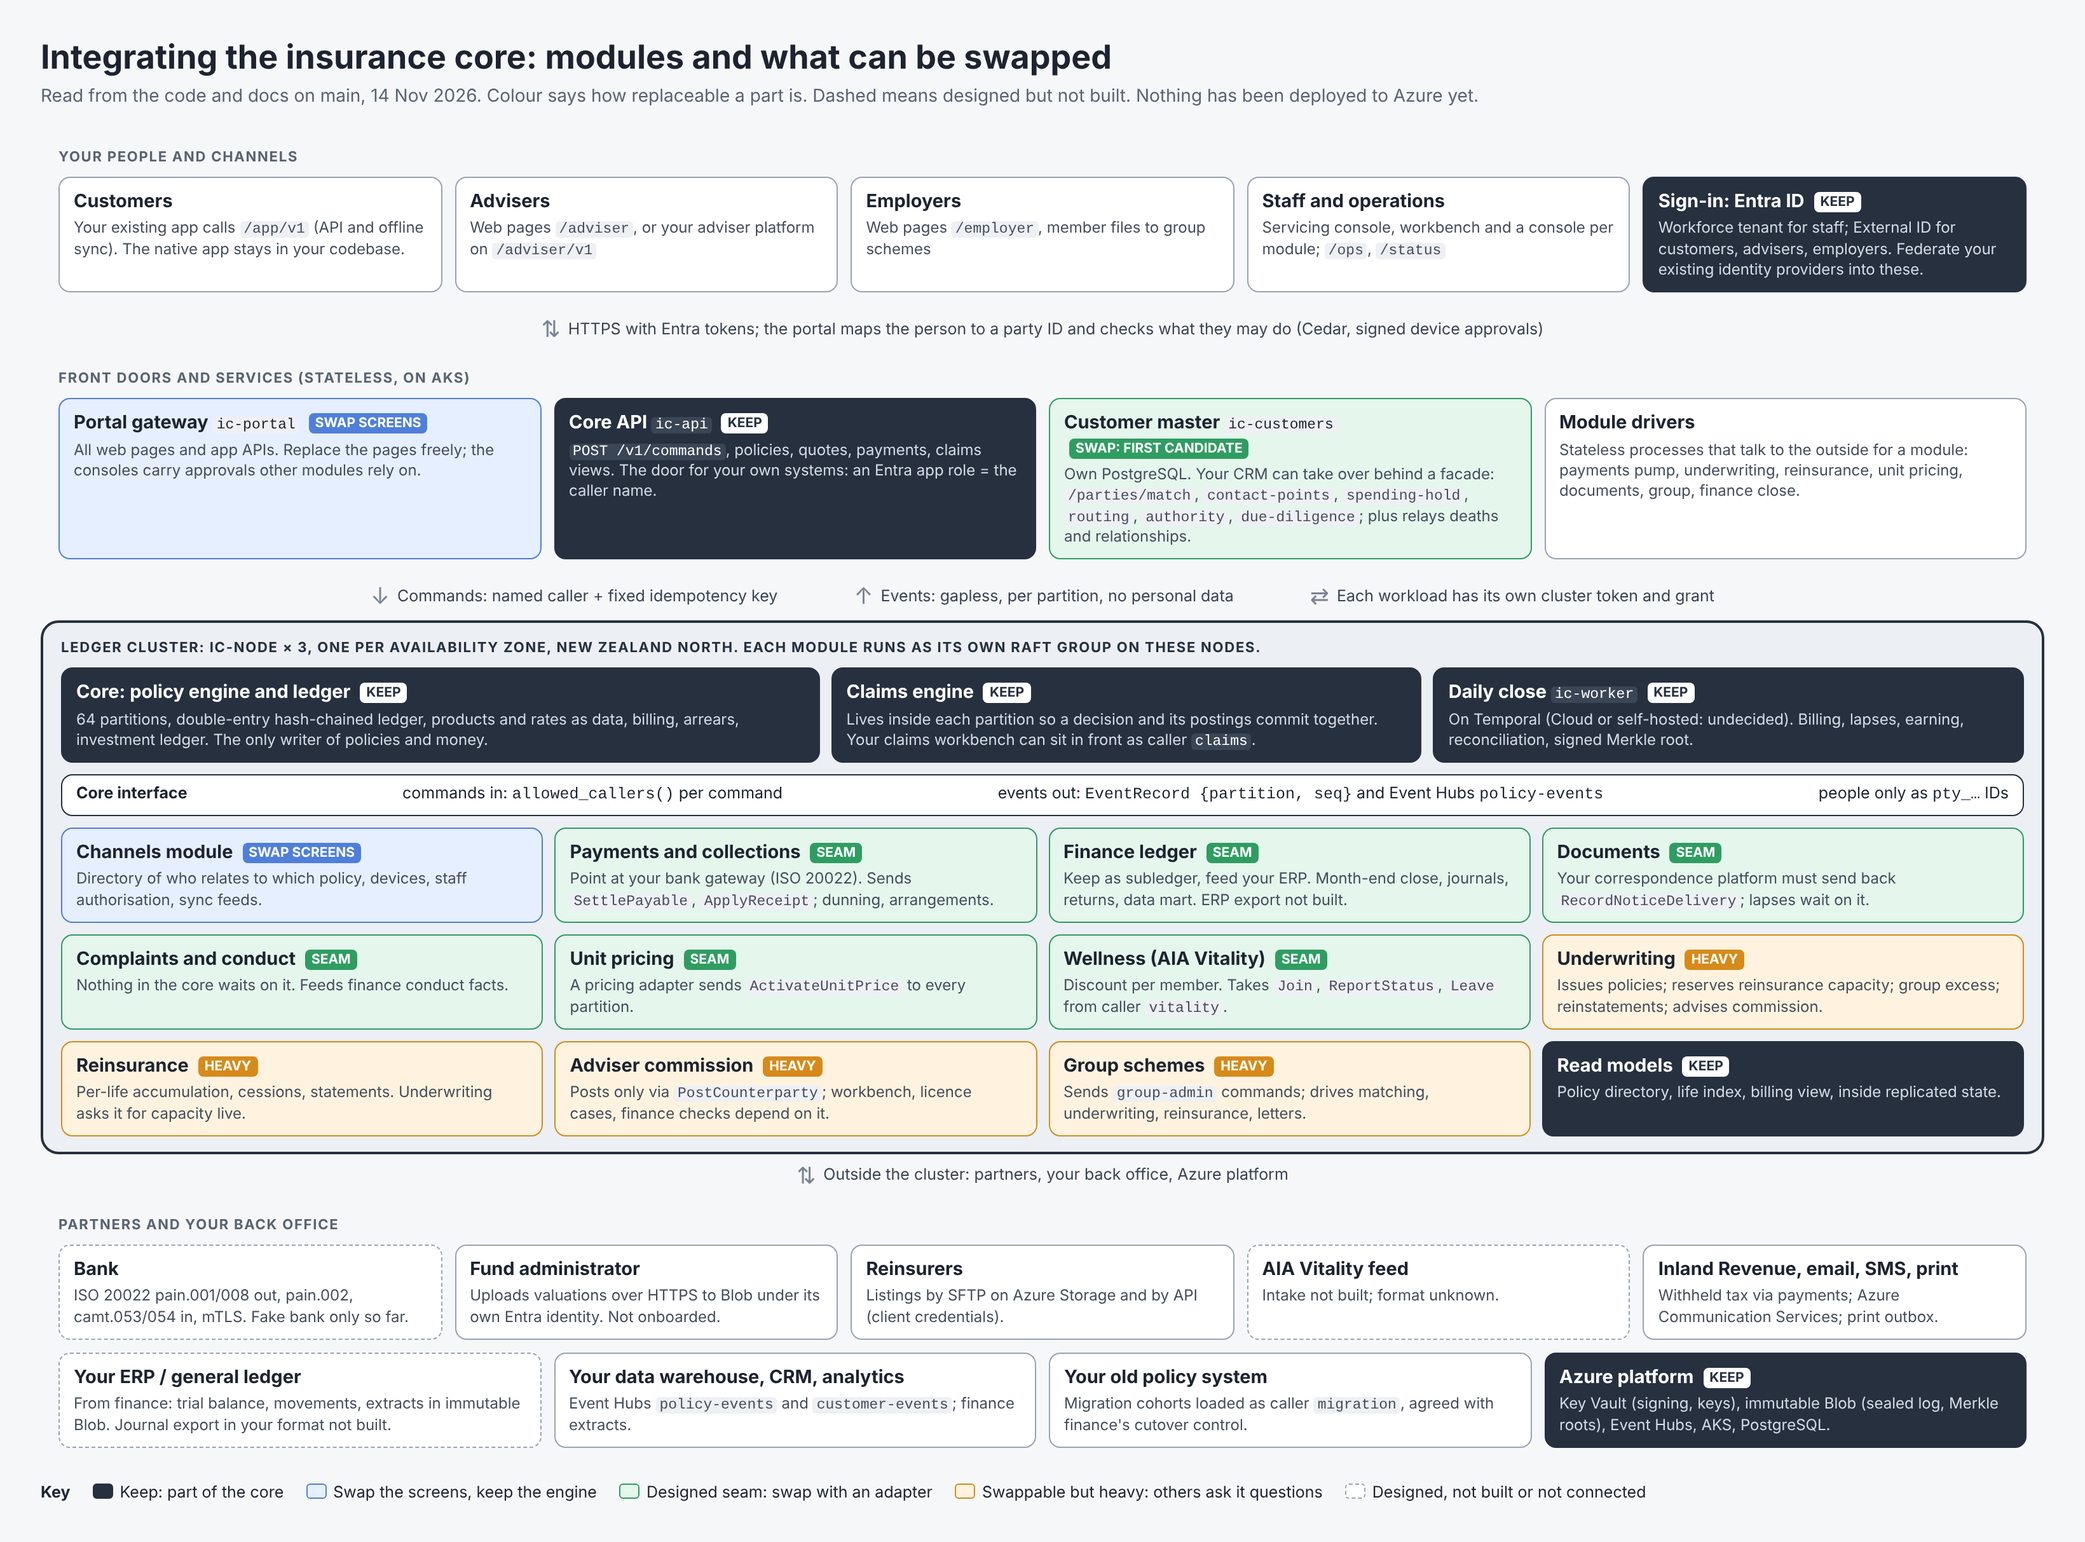
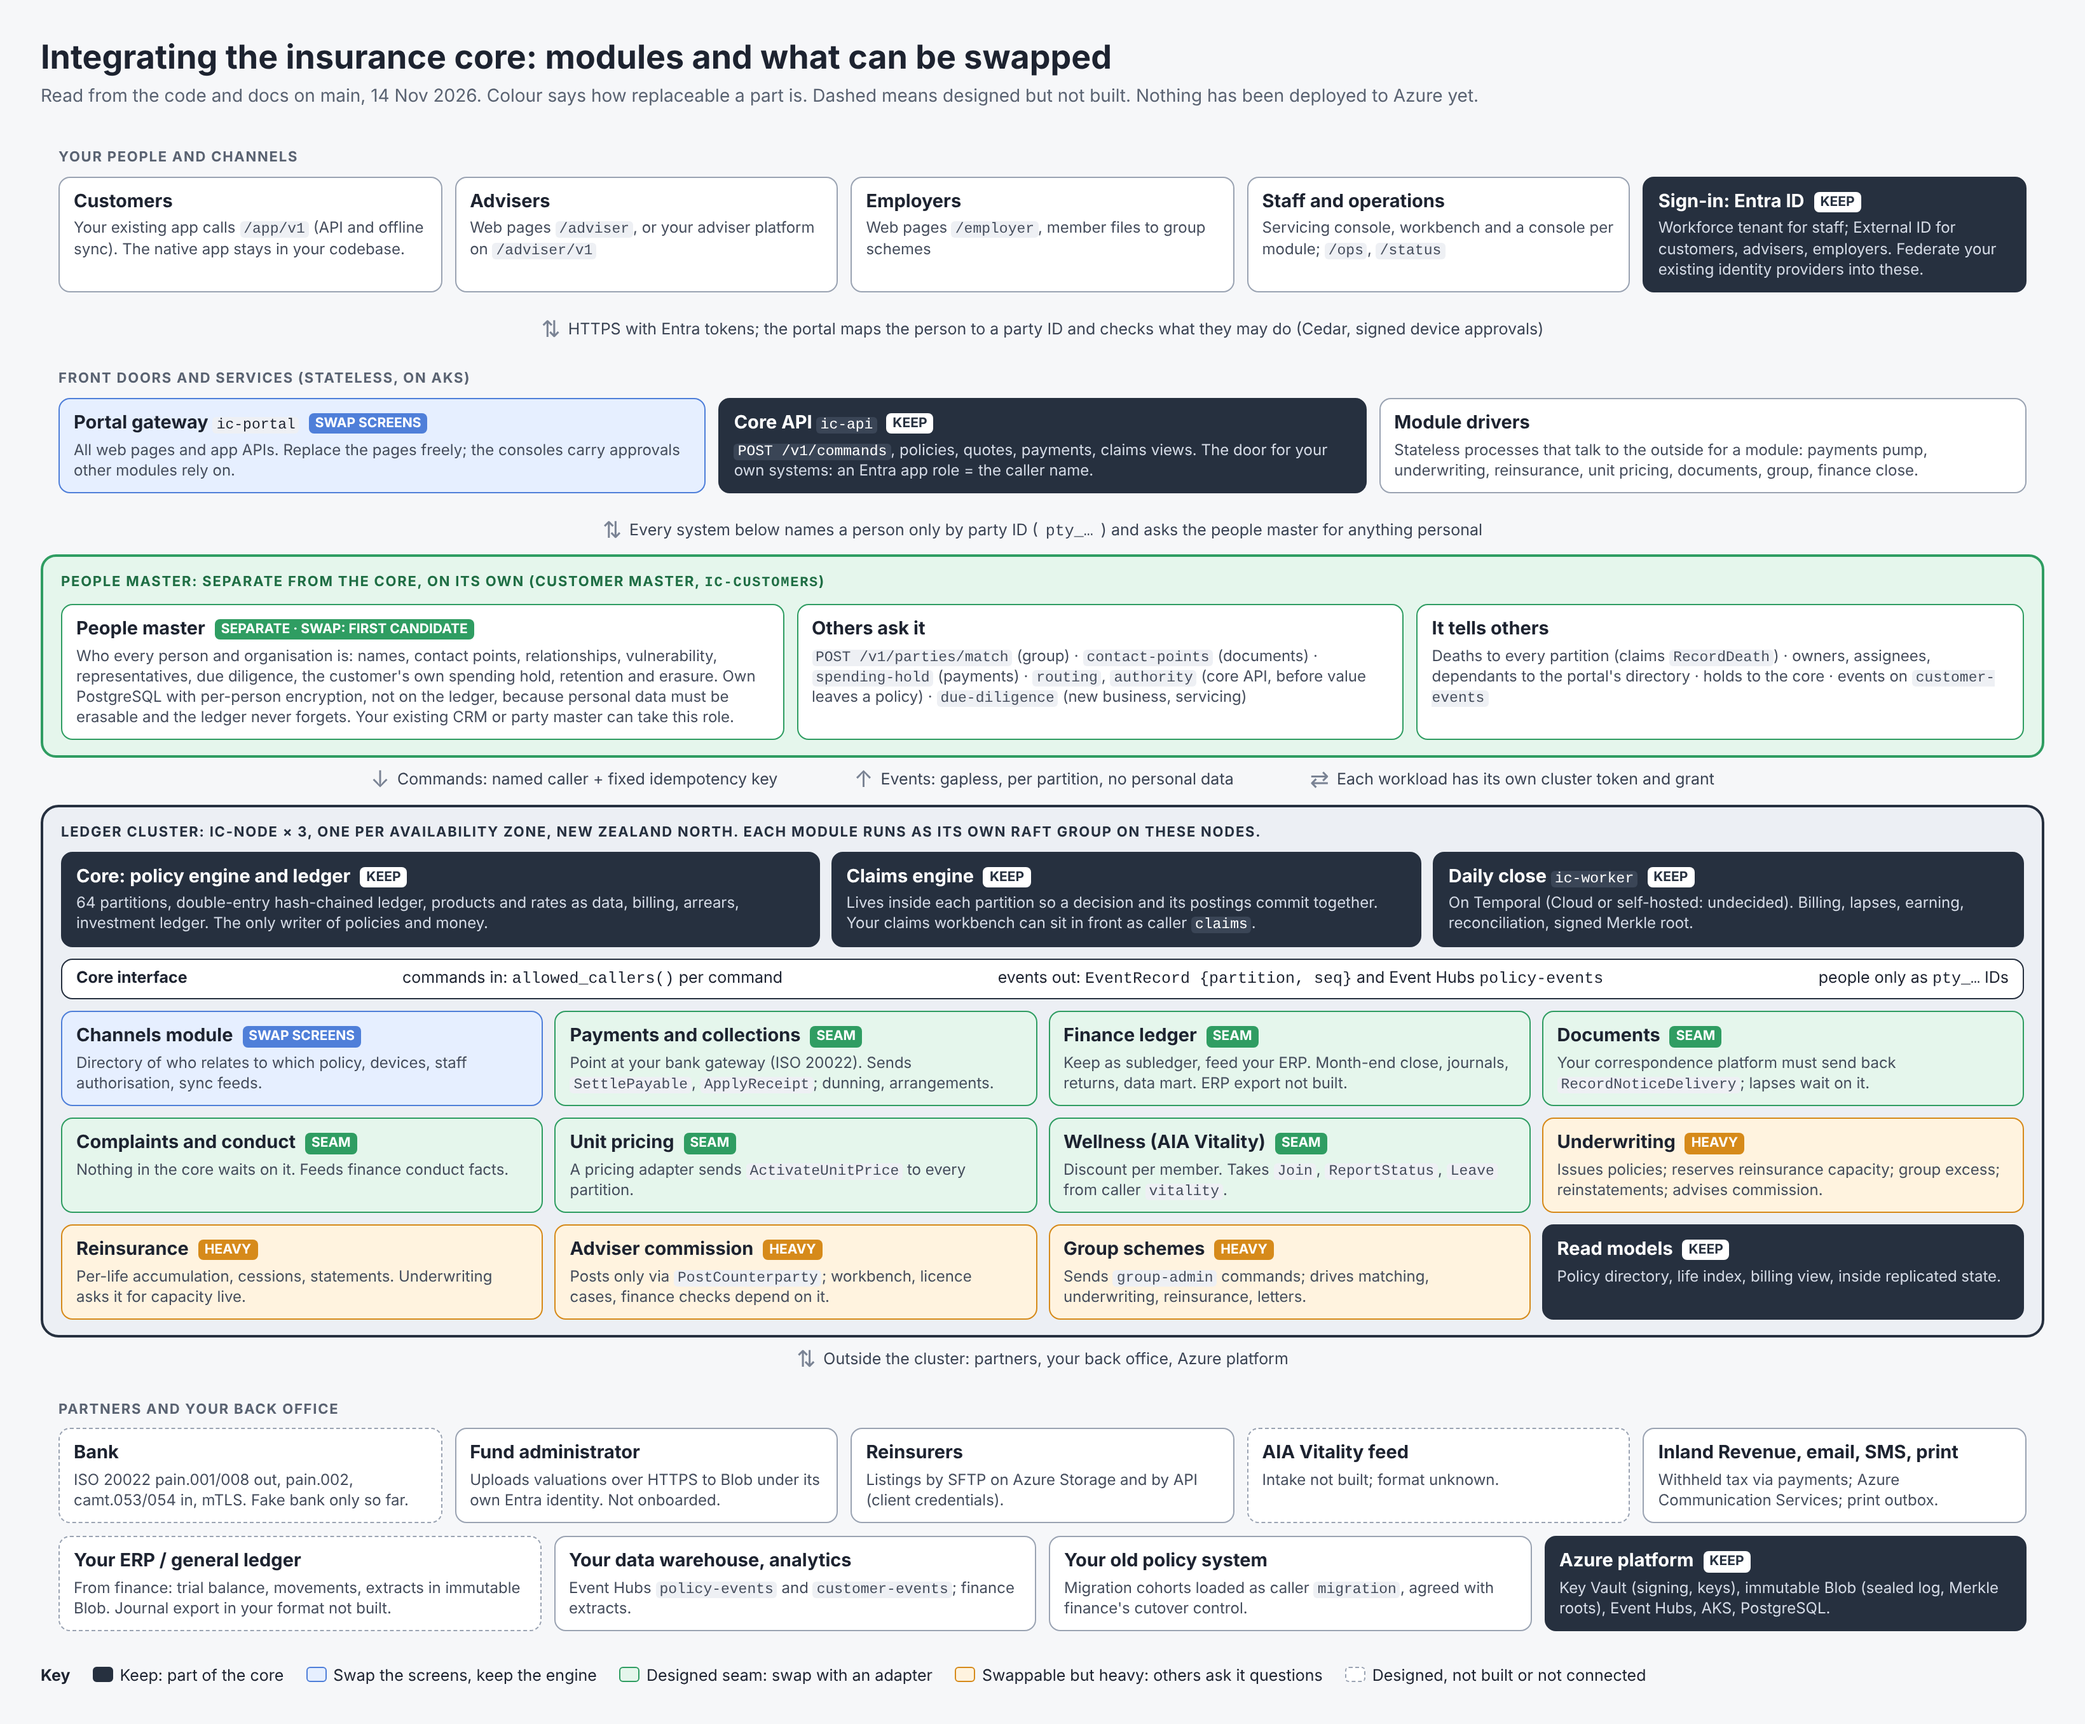
Draw the people master as its own system in the integration map
Claude-Session: https://claude.ai/code/session_01X1STTdrC2xT7AojKtnfAno

diff --git a/docs/integration/integration-map.html b/docs/integration/integration-map.html
@@ -39,8 +39,15 @@ h1{font-size:26px;margin:0 0 4px}.sub{color:#5a6372;margin:0 0 18px;font-size:14
 <div class="band"><div class="bl">Front doors and services (stateless, on AKS)</div><div class="row">
 <div class="b scr"><h3>Portal gateway <code>ic-portal</code> <span class="tag ts">SWAP SCREENS</span></h3><p>All web pages and app APIs. Replace the pages freely; the consoles carry approvals other modules rely on.</p></div>
 <div class="b keep"><h3>Core API <code>ic-api</code> <span class="tag tk">KEEP</span></h3><p><code>POST /v1/commands</code>, policies, quotes, payments, claims views. The door for your own systems: an Entra app role = the caller name.</p></div>
-<div class="b seam"><h3>Customer master <code>ic-customers</code> <span class="tag tg">SWAP: FIRST CANDIDATE</span></h3><p>Own PostgreSQL. Your CRM can take over behind a facade: <code>/parties/match</code>, <code>contact-points</code>, <code>spending-hold</code>, <code>routing</code>, <code>authority</code>, <code>due-diligence</code>; plus relays deaths and relationships.</p></div>
 <div class="b ext"><h3>Module drivers</h3><p>Stateless processes that talk to the outside for a module: payments pump, underwriting, reinsurance, unit pricing, documents, group, finance close.</p></div>
+</div></div>
+<div class="conn"><span><span class="arr">⇅</span>Every system below names a person only by party ID (<code>pty_…</code>) and asks the people master for anything personal</span></div>
+<div class="band" style="background:#e5f6ec;border:2.5px solid #2f9d62">
+<div class="bl" style="color:#1f6e44">People master: separate from the core, on its own (customer master, <code>ic-customers</code>)</div>
+<div class="row">
+<div class="b seam" style="flex:1.2;background:#fff"><h3>People master <span class="tag tg">SEPARATE · SWAP: FIRST CANDIDATE</span></h3><p>Who every person and organisation is: names, contact points, relationships, vulnerability, representatives, due diligence, the customer's own spending hold, retention and erasure. Own PostgreSQL with per-person encryption, not on the ledger, because personal data must be erasable and the ledger never forgets. Your existing CRM or party master can take this role.</p></div>
+<div class="b seam" style="background:#fff"><h3>Others ask it</h3><p><code>POST /v1/parties/match</code> (group) · <code>contact-points</code> (documents) · <code>spending-hold</code> (payments) · <code>routing</code>, <code>authority</code> (core API, before value leaves a policy) · <code>due-diligence</code> (new business, servicing)</p></div>
+<div class="b seam" style="background:#fff"><h3>It tells others</h3><p>Deaths to every partition (claims <code>RecordDeath</code>) · owners, assignees, dependants to the portal's directory · holds to the core · events on <code>customer-events</code></p></div>
 </div></div>
 <div class="conn"><span><span class="arr">↓</span>Commands: named caller + fixed idempotency key</span><span><span class="arr">↑</span>Events: gapless, per partition, no personal data</span><span><span class="arr">⇄</span>Each workload has its own cluster token and grant</span></div>
 
@@ -75,7 +82,7 @@ h1{font-size:26px;margin:0 0 4px}.sub{color:#5a6372;margin:0 0 18px;font-size:14
 <div class="b ext"><h3>Inland Revenue, email, SMS, print</h3><p>Withheld tax via payments; Azure Communication Services; print outbox.</p></div>
 </div><div class="row" style="margin-top:10px">
 <div class="b ext nb"><h3>Your ERP / general ledger</h3><p>From finance: trial balance, movements, extracts in immutable Blob. Journal export in your format not built.</p></div>
-<div class="b ext"><h3>Your data warehouse, CRM, analytics</h3><p>Event Hubs <code>policy-events</code> and <code>customer-events</code>; finance extracts.</p></div>
+<div class="b ext"><h3>Your data warehouse, analytics</h3><p>Event Hubs <code>policy-events</code> and <code>customer-events</code>; finance extracts.</p></div>
 <div class="b ext"><h3>Your old policy system</h3><p>Migration cohorts loaded as caller <code>migration</code>, agreed with finance's cutover control.</p></div>
 <div class="b keep"><h3>Azure platform <span class="tag tk">KEEP</span></h3><p>Key Vault (signing, keys), immutable Blob (sealed log, Merkle roots), Event Hubs, AKS, PostgreSQL.</p></div>
 </div></div>

diff --git a/docs/integration.md b/docs/integration.md
@@ -10,7 +10,7 @@ Every part of the system other than the core knows the core only through three t
 
 1. **Commands in.** A part changes a policy or moves money only by sending the core a typed command as a named caller (`new-business`, `payments`, `group-admin`, `claims` and so on), with an idempotency key that never changes for the same intent. Inside the cluster that goes through `ClusterClient`; from outside it is `POST /v1/commands` on `ic-api` with an Entra ID token whose app role is the caller name. The core checks each command against `allowed_callers()` in `crates/core/src/command.rs`, so a replacement system takes over a caller name, not a code path.
 2. **Events out.** Each of the 64 partitions publishes a gapless ordered stream of events (`EventRecord { partition, seq }`). Modules on the nodes read it directly; anything outside reads the Event Hubs hub `policy-events` or the node's event routes with a checkpoint per partition. Events carry no personal or health data, only opaque IDs.
-3. **People by party ID.** The core never holds a name, address or date of birth. It holds `pty_…` IDs, and whoever needs the person asks the customer master.
+3. **People by party ID.** The core never holds a name, address or date of birth. It holds `pty_…` IDs, and whoever needs the person asks the people master (the customer master), which is a separate system with its own database.
 
 A part that is replaced therefore has two jobs: send the commands that part used to send, and answer the questions other parts used to ask it. The tables below list both for each part.
 
@@ -38,9 +38,9 @@ The verdicts use four levels, matching the colours in the diagram:
 - **Designed seam**: the contract is narrow and documented; an existing system can take over with an adapter.
 - **Swappable, heavy**: possible, but several other parts read from it or ask it questions, and all of those would need re-pointing.
 
-### Customer master (`ic-customers`): designed seam, the first swap candidate
+### People master (customer master, `ic-customers`): separate from the core, the first swap candidate
 
-Who a person or organisation is: parties, relationships, matching, contact points, vulnerability markers, representatives, due diligence, the customer's own spending hold, retention and erasure. A stateless HTTP service with its own PostgreSQL, not on the ledger, because personal data must be erasable. The design notes assumed the bank's platform supplied this; it was built because nothing did.
+The people master is its own system, outside the ledger cluster and outside the core, and the diagram draws it as its own band. It is who a person or organisation is: parties, relationships, matching, contact points, vulnerability markers, representatives, due diligence, the customer's own spending hold, retention and erasure. A stateless HTTP service with its own PostgreSQL, not on the ledger, because personal data must be erasable. The design notes assumed the bank's platform supplied this; it was built because nothing did.
 
 | | |
 |---|---|
